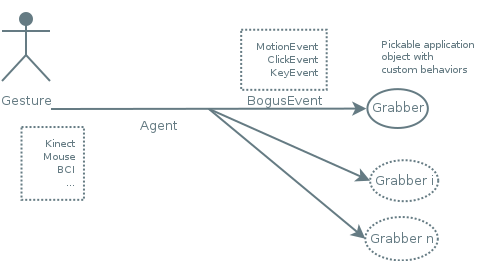
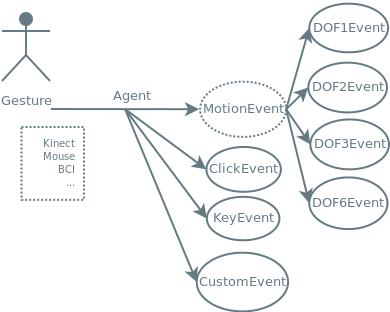
sequence diagrams added

diff --git a/source.md b/source.md
@@ -98,7 +98,7 @@ V:
 It is also about:
 
 <li class="fragment"> Creating academic materials: software + documentation (API-docs + html5 e-book, tutorials & wikis)
-<li class="fragment"> Appropiation through collaboration: open-sourcing the materials to encourage hacking them
+<li class="fragment"> Appropriation through collaboration: open-sourcing the materials to encourage hacking them
 
 H:
 
@@ -233,22 +233,38 @@ V:
 
 V:
 
-## Bias: Agent
-#### updateTrackedGrabber(): Update the 'inputGrabber()'
+## Bias: Agent: updateTrackedGrabber()
 
 <figure>
-    <img height='450' src='fig/arch_1.png' />
-    <figcaption>grabber.checkIfGrabsInput(event)</figcaption>
+    <img height='500' src='fig/arch1a.png' />
+    <figcaption>Event registration</figcaption>
 </figure>
 
 V:
 
-## Bias: Agent
-#### handle(): perform an interaction on the 'inputGrabber()'
+## Bias: Agent: handle()
 
 <figure>
-    <img height='450' src='fig/arch.png' />
-    <figcaption>grabber.performInteraction(event)</figcaption>
+    <img height='500' src='fig/arch1b.png' />
+    <figcaption>Event registration</figcaption>
+</figure>
+
+V:
+
+## Bias: Agent: updateTrackedGrabber()
+
+<figure>
+    <img height='500' src='fig/arch2a.png' />
+    <figcaption>Polling</figcaption>
+</figure>
+
+V:
+
+## Bias: Agent: handle()
+
+<figure>
+    <img height='500' src='fig/arch2b.png' />
+    <figcaption>Polling</figcaption>
 </figure>
 
 V:
@@ -365,7 +381,7 @@ V:
 
 ## Dandelion: Goal
 
-> Interactivitiy to *frames* (coordinate systems)
+> Interactivity to *frames* (coordinate systems)
 
 V:
 
